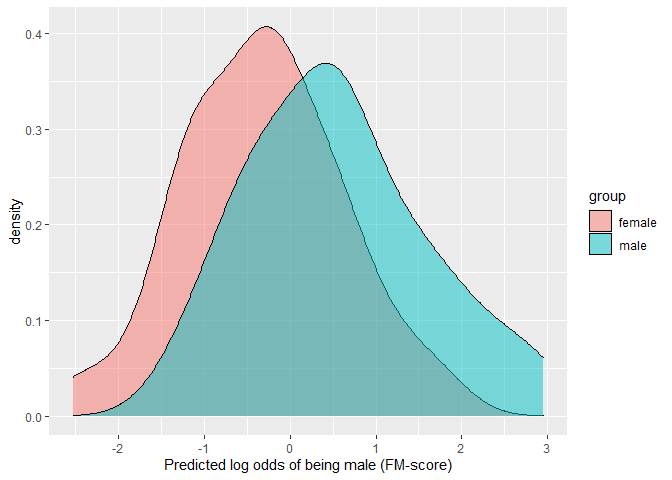
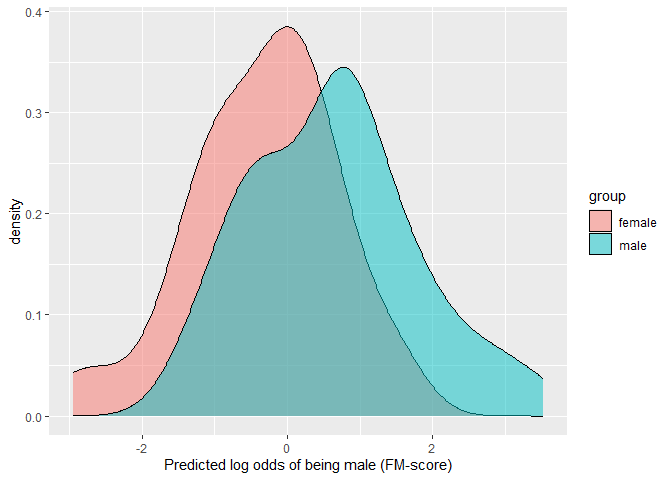
Edited CITATION

diff --git a/README.md b/README.md
@@ -38,21 +38,17 @@ Studies in which these methods have been used:
     of the political elite. *Political Behavior, 43*,
     1779–1800.](https://doi.org/10.1007/s11109-021-09681-2)
 
-2.  [Ilmarinen, V. J., Vainikainen, M. P., & Lönnqvist, J. E. (2022). Is
+2.  [Ilmarinen, V. J., Vainikainen, M. P., & Lönnqvist, J. E. (2023). Is
     there a g-factor of genderedness? Using a continuous measure of
     genderedness to assess sex differences in personality, values,
     cognitive ability, school grades, and educational track. *European
-    Journal of Personality*.](https://doi.org/10.1177/08902070221088155)
+    Journal of Personality, 37*,
+    313-337.](https://doi.org/10.1177/08902070221088155)
 
-*multid* also includes functions for testing hypothesis that consider
-predicting algebraic difference scores as variables. A joint test that
-focuses on the regression coefficients on the difference score
-components (minuend and subtrahend) is provided in the structural
-equation modeling framework (**sem_dadas**) and multilevel models
-(**ml_dadas**). Difference between Absolute Difference and Absolute Sum
-of the regression coefficients (DADAS) is used for direct test of
-whether the coefficients can be interpreted as predicting a difference
-score.
+*multid* also includes a function for testing several hypothesis that
+are typically compressed to correlation between predictor (x) and an
+algebraic difference score (y1-y2) by deconstructing this difference
+score correlation (**ddsc_sem**).
 
 In addition, *multid* includes various helper functions:
 
@@ -344,7 +340,7 @@ D.ela<-
 
 round(D.ela$D,2)
 #>      n.male n.female m.male m.female sd.male sd.female pooled.sd diff    D
-#> [1,]    100      100   0.54    -0.52    0.86      0.88      0.87 1.06 1.22
+#> [1,]    100      100   0.58    -0.58    0.89      0.99      0.94 1.16 1.23
 
 # use separate data for regularization and estimation
 
@@ -355,17 +351,17 @@ D.ela_out<-D_regularized(data=dat,
               out=T,size = 50,pcc = T, auc=T,pred.prob = T)
 
 round(D.ela_out$D,2)
-#>      n.male n.female m.male m.female sd.male sd.female pooled.sd diff    D
-#> [1,]     50       50   0.55    -0.33    1.04      0.92      0.99 0.88 0.89
+#>      n.male n.female m.male m.female sd.male sd.female pooled.sd diff   D
+#> [1,]     50       50   0.63    -0.34    1.14      1.01      1.08 0.97 0.9
 #>      pcc.male pcc.female pcc.total  auc
-#> [1,]     0.68       0.68      0.68 0.73
+#> [1,]     0.66       0.58      0.62 0.73
 
 # Table of predicted probabilites
 D.ela_out$P.table
 #>         
 #>          [0,0.2) [0.2,0.4) [0.4,0.6) [0.6,0.8) [0.8,1]
-#>   female    0.10      0.34      0.32      0.20    0.04
-#>   male      0.00      0.18      0.26      0.36    0.20
+#>   female    0.14      0.28      0.32      0.22    0.04
+#>   male      0.00      0.22      0.16      0.38    0.24
 ```
 
 ### Comparison of Mahalanobis’ D and Regularized D when Sex Difference in Population Does Not Exist
@@ -446,8 +442,8 @@ D.ela.zero<-
               group.values = c("male","female"))
 
 round(D.ela.zero$D,2)
-#>      n.male n.female m.male m.female sd.male sd.female pooled.sd diff    D
-#> [1,]    100      100   0.02    -0.02     0.1       0.1       0.1 0.04 0.35
+#>      n.male n.female m.male m.female sd.male sd.female pooled.sd diff   D
+#> [1,]    100      100      0        0       0         0         0    0 NaN
 
 # use separate data for regularization and estimation
 
@@ -459,17 +455,17 @@ D.ela.zero_out<-
               out=T,size = 50,pcc = T, auc=T,pred.prob = T)
 
 round(D.ela.zero_out$D,2)
-#>      n.male n.female m.male m.female sd.male sd.female pooled.sd diff   D
-#> [1,]     50       50      0        0       0         0         0    0 NaN
-#>      pcc.male pcc.female pcc.total auc
-#> [1,]        1          0       0.5 0.5
+#>      n.male n.female m.male m.female sd.male sd.female pooled.sd diff    D
+#> [1,]     50       50   0.04     0.03    0.25      0.24      0.24 0.01 0.04
+#>      pcc.male pcc.female pcc.total  auc
+#> [1,]     0.58       0.46      0.52 0.51
 
 # Table of predicted probabilites
 D.ela.zero_out$P.table
 #>         
 #>          [0,0.2) [0.2,0.4) [0.4,0.6) [0.6,0.8) [0.8,1]
-#>   female       0         0         1         0       0
-#>   male         0         0         1         0       0
+#>   female    0.00      0.04      0.94      0.02    0.00
+#>   male      0.00      0.02      0.92      0.06    0.00
 ```
 
 ### Distribution overlap
@@ -505,15 +501,15 @@ ggplot(D.ela_out$pred.dat,
 
 ## obtain D first
 (D<-unname(D.ela_out$D[,"D"]))
-#> [1] 0.8884007
+#> [1] 0.9004981
 
 (OVL<-2*pnorm((-D/2)))
-#> [1] 0.6568977
+#> [1] 0.6525309
 
 ## Proportion of overlap relative to the joint distribution
 
 (OVL2<-OVL/(2-OVL))
-#> [1] 0.4890899
+#> [1] 0.484264
 
 # non-parametric overlap
 
@@ -533,17 +529,17 @@ np.overlap<-
 
 # this corresponds to Proportion of overlap relative to the joint distribution (OVL2)
 (np.OVL2<-unname(np.overlap$OV))
-#> [1] 0.5412493
+#> [1] 0.6980442
 
 # from which Proportion of overlap relative to a single distribution (OVL) is approximated at
 (np.OVL<-(2*np.OVL2)/(1+np.OVL2))
-#> [1] 0.7023514
+#> [1] 0.8221744
 
 # compare overlaps
 
 round(cbind(OVL,np.OVL,OVL2,np.OVL2),2)
 #>       OVL np.OVL OVL2 np.OVL2
-#> [1,] 0.66    0.7 0.49    0.54
+#> [1,] 0.65   0.82 0.48     0.7
 ```
 
 ### Predicting Difference Scores

diff --git a/NEWS.md b/NEWS.md
@@ -4,7 +4,7 @@
 * Fixed a typo in D_regularized manual
 * Added difference between two dependent correlations -function (diff_two_dep_cors) which enables simultaneous estimation and testing of Cohen's q under variable dependency
 * Added possibility to use manually constructed regularization and estimation datasets, supplied as a list of two dataframes to "data"-argument in D_regularized
-* Improved the output of diff_two_dep_cors and included an agument for missing data ("ML")
+* Improved the output of diff_two_dep_cors and included an argument for missing data ("ML")
 * Improved clarity in multivariate sex difference vignette
 * Added value_correlation -function for testing and quantifying how ipsatizing values influences associations with other variables
 * Added ddsc_sem -function for deconstructing difference score correlation with structural equation modeling 
